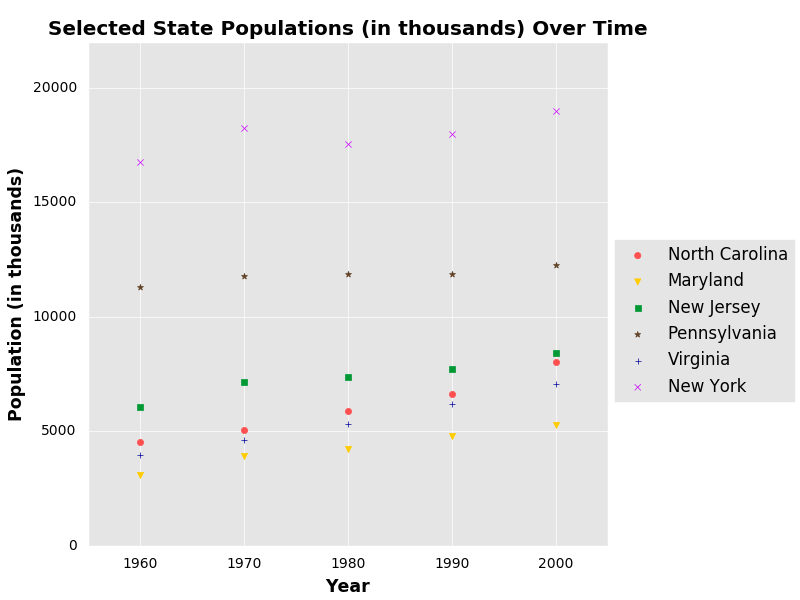
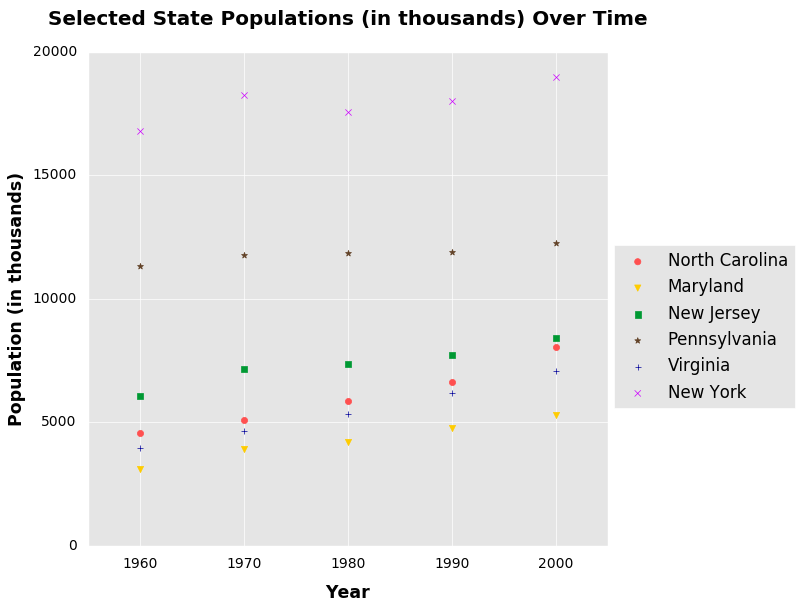
adjust scatter plot spacing
add space between title and plot. modify x axis limits. add space
between x axis label and plot.

diff --git a/scatter_plot.py b/scatter_plot.py
@@ -78,7 +78,7 @@ plt.scatter(census_subset['Year'].unique().tolist(),
 
 # Set x-axis and y-axis limits.
 plt.xlim([1955, 2005])
-plt.ylim([0, 22000])
+plt.ylim([0, 20000])
 
 # Remove first and last x-axis label (not needed).
 ax1.xaxis.get_major_ticks()[0].label1.set_visible(False)
@@ -88,6 +88,12 @@ ax1.xaxis.get_major_ticks()[-1].label1.set_visible(False)
 ax1.tick_params(axis = 'both',
                 length = 0,
                 colors = 'black')
+
+# Adjust plot title spacing.
+ax1.title.set_position([0.5, 1.04])
+
+# Adjust x-axis title spacing.
+ax1.xaxis.labelpad = 9
 
 # Set plot and axes titles.
 plt.title('Selected State Populations (in thousands) Over Time',
